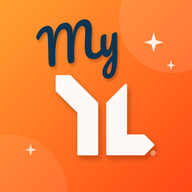
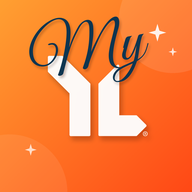
Лого: знак YL по центру, тонке «My» заходить на знак
Claude-Session: https://claude.ai/code/session_019bucsmkLyJupB92SRdeUUb

Changed region(s): [[0.125, 0.0625, 0.875, 0.8438], [0.875, 0.25, 0.9375, 0.375]]

diff --git a/index.html b/index.html
@@ -4,14 +4,14 @@
 <meta charset="utf-8">
 <meta name="viewport" content="width=device-width, initial-scale=1, maximum-scale=1, user-scalable=no, viewport-fit=cover">
 <title>MyYL · Young Life Україна</title>
-<link rel="manifest" href="manifest.webmanifest?v=4">
+<link rel="manifest" href="manifest.webmanifest?v=5">
 <meta name="theme-color" content="#ff7a00">
 <meta name="apple-mobile-web-app-capable" content="yes">
 <meta name="mobile-web-app-capable" content="yes">
 <meta name="apple-mobile-web-app-title" content="MyYL">
 <meta name="apple-mobile-web-app-status-bar-style" content="default">
-<link rel="apple-touch-icon" href="icons/apple-touch-icon.png?v=4">
-<link rel="icon" type="image/png" href="icons/favicon-32.png?v=4">
+<link rel="apple-touch-icon" href="icons/apple-touch-icon.png?v=5">
+<link rel="icon" type="image/png" href="icons/favicon-32.png?v=5">
 <link rel="preconnect" href="https://fonts.googleapis.com">
 <link rel="preconnect" href="https://fonts.gstatic.com" crossorigin>
 <link href="https://fonts.googleapis.com/css2?family=Inter:wght@400;500;600;700&family=Manrope:wght@700;800&display=swap" rel="stylesheet">
@@ -21,6 +21,6 @@
 <body>
 <div id="app"><div class="loader"><div class="spin"></div>Завантаження…</div></div>
 <script src="config.js?v=3"></script>
-<script src="app.js?v=41"></script>
+<script src="app.js?v=42"></script>
 </body>
 </html>

diff --git a/sw.js b/sw.js
@@ -1,5 +1,5 @@
 /* MyYL · service worker: застосунок відкривається швидко й без мережі показує останню версію оболонки */
-const CACHE = 'myyl-v4';
+const CACHE = 'myyl-v5';
 const SHELL = ['./', './index.html', './styles.css', './app.js', './config.js', './manifest.webmanifest', './icons/icon-192.png'];
 self.addEventListener('install', (e) => { e.waitUntil(caches.open(CACHE).then((c) => c.addAll(SHELL)).catch(() => {})); self.skipWaiting(); });
 self.addEventListener('activate', (e) => { e.waitUntil(caches.keys().then((ks) => Promise.all(ks.filter((k) => k !== CACHE).map((k) => caches.delete(k)))).then(() => self.clients.claim())); });

diff --git a/app.js b/app.js
@@ -2353,7 +2353,7 @@ const DIRS = ['YoungLife', 'WyldLife', 'College', 'Capernaum', 'YoungMoms'];
   function renderLogin(msg) {
     const L = S.login;
     $app.innerHTML = `<main class="main no-nav login"><div class="login-box">
-      <img src="icons/icon-192.png?v=4" alt="" class="login-logo" width="88" height="88">
+      <img src="icons/icon-192.png?v=5" alt="" class="login-logo" width="88" height="88">
       <h1 style="font-size:28px;margin:0">MyYL</h1><div class="muted">Young Life Україна</div>
       ${msg ? `<div class="note small">${esc(msg)}</div>` : ''}
       ${L ? `<div class="card col" style="gap:10px;text-align:center"><div class="spin" style="margin:0 auto"></div>
